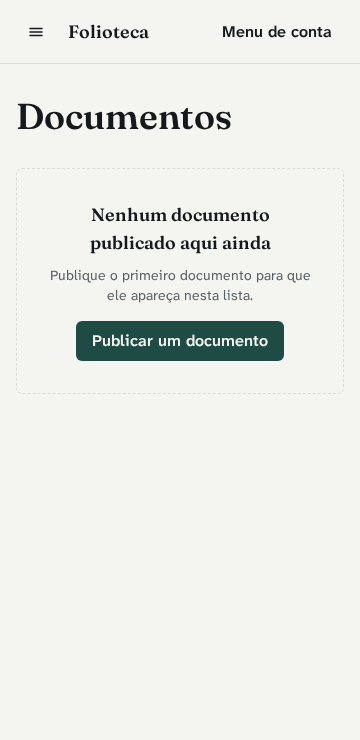
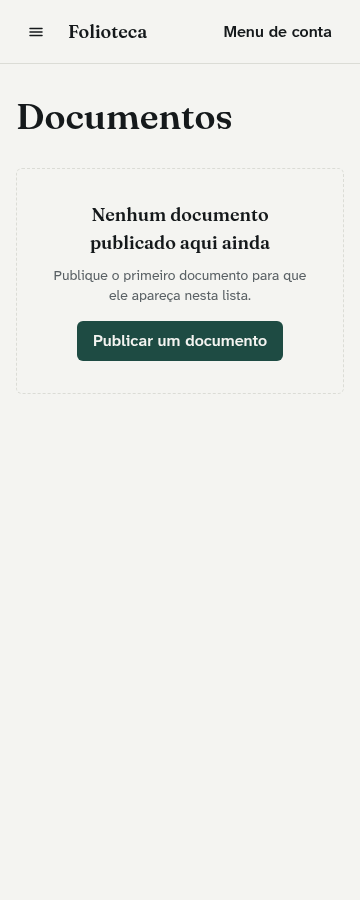
050: the unit suite says what it ran, and the theme paints the element the criterion names
Phase 4 was reproved on two criteria, and D-013 opened the scope that lets both
close. The unit suite now declares a verbose reporter in the config, so the
command the CI actually runs names the files it ran — a green suite and a suite
that found no file no longer answer alike. The root element carries the theme
surface and each theme block declares its color-scheme, so the frame the browser
paints before the body does is already the chosen theme, and the RF-06 case
reads the element the criterion names.

Two shape defects the validator noted stay fixed here, because both are the
literal text of criteria already written: the toggle case asserts the class it
comes from, not only the one it goes to, and the focus indicator case reaches
the link by Tab, which is what "by keyboard" means.

The screenshots without interaction are retaken against the corrected build.
The native frame painted before the entry module runs becomes roadmap item 078:
the one-line CSS escape moves the defect instead of closing it, and the
canonical fix is blocked by the very policy RF-06 measures.

diff --git a/apps/web/e2e/esqueleto.spec.ts b/apps/web/e2e/esqueleto.spec.ts
@@ -169,6 +169,11 @@ test("o alternador do menu de conta troca o tema sem recarregar", async ({
   const primeiraContagem = await contarTabsAteMenuDeConta();
   expect(primeiraContagem).toBeLessThanOrEqual(8);
 
+  const classeAntesDaTroca = await page.evaluate(
+    () => document.documentElement.className,
+  );
+  expect(classeAntesDaTroca).toContain("tema-claro");
+
   await page.keyboard.press("Enter");
   await page.getByRole("menuitem", { name: "Tema escuro" }).click();
 
@@ -176,6 +181,7 @@ test("o alternador do menu de conta troca o tema sem recarregar", async ({
     () => document.documentElement.className,
   );
   expect(classeAposTroca).toContain("tema-escuro");
+  expect(classeAposTroca).not.toContain("tema-claro");
 
   const cargas = await page.evaluate(
     () => (window as unknown as { __cargas: number }).__cargas,
@@ -228,7 +234,7 @@ test("o tema entra antes da primeira pintura", async ({ page }) => {
   await page.goto("/documentos");
 
   const corDeFundo = await page.evaluate(
-    () => getComputedStyle(document.body).backgroundColor,
+    () => getComputedStyle(document.documentElement).backgroundColor,
   );
   const corPapel = await corComputadaDoToken(page, "--color-papel");
   const corTinta = await corComputadaDoToken(page, "--color-tinta");
@@ -306,8 +312,24 @@ test("o indicador de foco existe nos dois temas", async ({ page }) => {
 
   const link = page.getByRole("link", { name: "Documentos" });
 
+  // decisão: o foco chega por Tab, e não por `link.focus()`, porque é o
+  // caminho do teclado que o critério mede — `:focus-visible` casa sempre com
+  // teclado, mas medir pelo caminho programático provaria outra coisa.
+  const focarPorTeclado = async () => {
+    await page.evaluate(() => {
+      (document.activeElement as HTMLElement | null)?.blur();
+    });
+    for (let tentativas = 0; tentativas < 12; tentativas++) {
+      await page.keyboard.press("Tab");
+      if (await link.evaluate((el) => el === document.activeElement)) {
+        return;
+      }
+    }
+    throw new Error("o link Documentos não recebeu foco em 12 pressões de Tab");
+  };
+
   const lerIndicador = async () => {
-    await link.focus();
+    await focarPorTeclado();
     return link.evaluate((elemento) => {
       const estilo = getComputedStyle(elemento);
       return {

diff --git a/apps/web/vite.config.ts b/apps/web/vite.config.ts
@@ -122,6 +122,11 @@ export default defineConfig({
   },
   test: {
     environment: "jsdom",
+    // decisão: o reporter padrão do Vitest 4 só imprime o sumário quando nada
+    // falha, e uma suíte que não encontrou arquivo nenhum responde igual a uma
+    // suíte verde. `verbose` nomeia cada arquivo que rodou, que é o observável
+    // que separa os dois casos sem depender de flag na linha de comando.
+    reporters: ["verbose"],
     include: ["src/**/*.test.{ts,tsx}"],
     setupFiles: ["./vitest.setup.ts"],
     env: {

diff --git a/product/items/050-linguagem-visual-e-sistema-de-design/decisoes-autonomas.md b/product/items/050-linguagem-visual-e-sistema-de-design/decisoes-autonomas.md
@@ -409,3 +409,8 @@ despachar igual se ninguém disser o contrário.
 | D40 | execute · fase 4 | **O `Dialog.CloseTrigger` fica dentro do `<nav>` da gaveta**, e a pendência vira o item `077` do roadmap | Mover para fora do `<nav>`, como o revisor recomendou; ou registrar divergência e reescrever o critério de `RF-24` | O revisor tem razão no mérito — o landmark de navegação passou a conter uma ação de chrome do diálogo — e escreveu que o teste "passa de qualquer jeito". Medido, não passa: os cinco focáveis da gaveta ciclam e o botão cai nas posições 0 e 5 da trilha de oito `Tab`, e o critério de `RF-24` exige o foco **contido no elemento de papel `navigation`** nas oito leituras. Fora do `<nav>`, duas devolvem falso. A informação que decide não estava com quem recomendou. Reescrever o critério é mudar a régua da fase enquanto ela é medida, que é o antipadrão que a norma nomeia; a impureza não é violação mensurável e o axe não acusa. O item `077` fica na precedência de `002` a `007`, com a forma que fecha escrita: cabeçalho próprio na gaveta, e o critério medindo foco preso no diálogo, que é o que ele sempre quis dizer |
 | D41 | execute · fase 4 | **O alcance da fase cede, e os dois critérios reprovados ficam como estão** | Reescrever os dois critérios para caber no alcance declarado — `vitest run --reporter=verbose` no primeiro, `document.body` no segundo; ou fechar a fase com 11 de 13 | Registrada como divergência `D-013`. Os dois critérios acertaram: o `comando` pegou uma suíte que não diz o que rodou — medido, `grep -c "tema.test.ts"` na saída devolve `0`, inclusive em TTY real —, e o `comportamental` de `RF-06` pegou um elemento raiz transparente, `rgba(0, 0, 0, 0)` contra `rgb(244, 244, 241)` no corpo, que deixa o quadro escuro aparecer antes de o corpo pintar. Quando o critério acerta e o alcance não deixa consertar, quem cede é o alcance. Reescrever a régua enquanto a fase é medida é o antipadrão que a norma nomeia em três lugares; e as duas reescritas enfraqueceriam exatamente a asserção que cada critério existe para fazer — a flag não protege o CI, que roda o comando sem ela, e ler o corpo apaga a medição do quadro escuro |
 | D42 | execute · fase 4 | **O veredicto da fase 4 é gravado pela thread principal, com o texto do validador sem retoque, e o defeito fica anotado no próprio arquivo** | Insistir na gravação pelo agent, ou registrar a fase sem arquivo de veredicto | O guard de escopo recusou a escrita do `phase-validator` — "o agent `phase-validator` é de leitura" —, contra o que a skill `harness-orchestrator` descreve: ela diz que o validador tem `Write` e grava o próprio veredicto, e que o retorno dele à thread principal cabe em cinco linhas justamente por isso. Sem gravar, ele devolveu o veredicto inteiro pelo canal de retorno, que é o custo de contexto que o desenho existe para evitar. Fase aprovada sem veredicto persistido é o que o `check` acusa, então não gravar não era opção. A anomalia mora no plugin `generic_harness`, fora deste repositório, e o harness não se edita de dentro da corrida — vira proposta de retrospectiva |
+| D43 | execute · fase 4 | **O reporter da suíte de unidade é declarado como `verbose` em `vite.config.ts`, sem flag na linha de comando** | Passar `--reporter=verbose` no comando do critério; ou baixar o critério para só o código de saída | Executando `D-013`, que abriu o alcance. A flag no comando não protege nada: o CI e o portão rodam `vitest run` sem ela, e a asserção que o critério existe para fazer — distinguir suíte verde de suíte que não achou arquivo nenhum — só vale onde o comando de verdade roda. Medido depois da mudança: `pnpm --filter web exec vitest run` nomeia `tema.test.ts` em 8 linhas, e os 23 arquivos com 97 casos aparecem um a um |
+| D44 | execute · fase 4 | **O caso de `RF-06` passa a ler `document.documentElement`, e o elemento raiz carrega a superfície do tema** | Deixar o caso lendo `document.body`, que passava | Executando `D-013`. O critério nomeia o elemento raiz, e o resto do bloco também: é no raiz que a classe de tema é lida e é nele que `main.tsx` a aplica. Medido antes: raiz em `rgba(0, 0, 0, 0)` contra `rgb(244, 244, 241)` no corpo. Depois da regra `:root { background-color: var(--superficie) }` e do `color-scheme` em cada bloco de tema, o caso passa lendo o elemento que o critério nomeia, e a defesa que ele existe para dar — não ver quadro escuro com `claro` guardado — passa a valer também na janela em que o corpo ainda não pintou |
+| D45 | execute · fase 4 | **Os dois achados de forma que o validador anotou fora de escopo são corrigidos aqui**: o caso do alternador afirma a classe **antes** da troca, e o do indicador de foco chega ao link por `Tab` | Registrá-los como pendência de roadmap, já que o validador os pôs fora do escopo dos critérios | Os dois são o texto literal do critério que já está escrito, não escopo novo. `RF-05` diz "a classe do elemento raiz **passa de `tema-claro` para** `tema-escuro`", e o caso só afirmava o destino — um esqueleto que nascesse escuro passaria igual; `RF-29` diz "move o foco **por teclado**", e o caso chamava `link.focus()`. Corrigir um caso para medir o que o critério escreve não é mudar a régua: é parar de medir outra coisa. Medido: os 33 casos da suíte seguem verdes numa subida |
+| D46 | execute · fase 4 | **O lampejo claro antes de o módulo rodar vira o item `078` do roadmap, e não remendo desta fase** | Declarar `color-scheme: light dark` no `:root` sem classe, que é a mudança de uma linha | Medido no artefato de `dist`: o documento servido é `<html lang="pt-BR">` sem classe, e `color-scheme` só existe dentro de `.tema-claro` e `.tema-escuro` — entre o HTML e o módulo, o navegador pinta o quadro claro por padrão. A saída de uma linha troca de lado o defeito: acerta quem não tem escolha guardada e erra quem guardou o tema contrário ao do sistema. A forma canônica — script embutido antes da folha — é bloqueada por `script-src 'self'`, a política que o próprio `RF-06` mede pela contagem de `script` sem `src` igual a `0`. Fechar exige mudar o artefato, não uma regra de CSS |
+| D47 | execute · fase 4 | **As dez capturas sem interação são retiradas de novo contra o build corrigido**, e as quatro que exigem interação ficam da rodada anterior | Manter as catorze como estavam, já que a mudança de CSS não altera nada visível nelas | A evidência de uma fase tem que vir da árvore que a fase entrega, e a árvore mudou depois que elas foram tiradas. Olhadas as novas: a paleta, o esqueleto e as três larguras seguem como estavam, e o telefone em `360` e a última largura em `767` continuam sem rolagem horizontal. As quatro de interação — atalho, menu aberto, foco no destino e gaveta aberta — dependem de passos que o script de captura não executa, e nada no diff desta rodada as toca |

diff --git a/product/roadmap.md b/product/roadmap.md
@@ -931,6 +931,29 @@ corretamente pela régua local, e nenhuma tela pronta de manhã.
       quis dizer, em vez de contenção no landmark de navegação, que era o proxy
       que funcionava enquanto a gaveta não tinha mais nada dentro.
 
+- [ ] `078-o-quadro-nativo-nasce-no-tema-certo-antes-de-o-modulo-rodar` — quem
+      abre o produto num sistema escuro não vê o lampejo branco que antecede a
+      primeira pintura
+      **Depende de:** `050` — o esqueleto e o tema que este defeito habita. E
+      precede qualquer critério que meça a tela **antes** do evento de carga.
+      **Origem:** fase 4 de `050`, em 09/09/2026, como achado da correção que
+      fez o elemento raiz carregar a superfície do tema. Medido no artefato de
+      `apps/web/dist`: o documento servido é `<html lang="pt-BR">`, sem classe de
+      tema, e `color-scheme` só existe dentro de `.tema-claro` e `.tema-escuro`.
+      Entre a chegada do HTML e a execução do módulo de entrada, portanto, o
+      documento não tem tema nem `color-scheme`, e o navegador pinta o quadro
+      claro por padrão — num sistema escuro, um lampejo branco, que é o sintoma
+      que `RF-06` quer eliminar, na única janela que o CSS do app não alcança.
+      **Por que não foi corrigido na fase que o encontrou:** as duas saídas
+      baratas trocam de lado o defeito em vez de fechá-lo. `color-scheme:
+      light dark` no `:root` sem classe acerta quem não tem escolha guardada e
+      erra quem guardou o tema contrário ao do sistema; e um `<script>` embutido
+      antes da folha de estilo — a forma canônica — é bloqueado por
+      `script-src 'self'`, a política que `RF-06` mede pela contagem de `script`
+      sem `src` igual a `0`. Fechar exige escolher entre servir a classe já no
+      documento e um módulo de bloqueio com `src` próprio, e as duas mudam o
+      artefato, não uma regra de CSS.
+
 - [ ] `058-o-endereco-de-homologacao-diz-o-nome-do-produto` — os três FQDNs de
       homologação saem de `gbdocs.duckdns.org`, herdado do projeto anterior, para
       um domínio que nomeia esta aplicação
